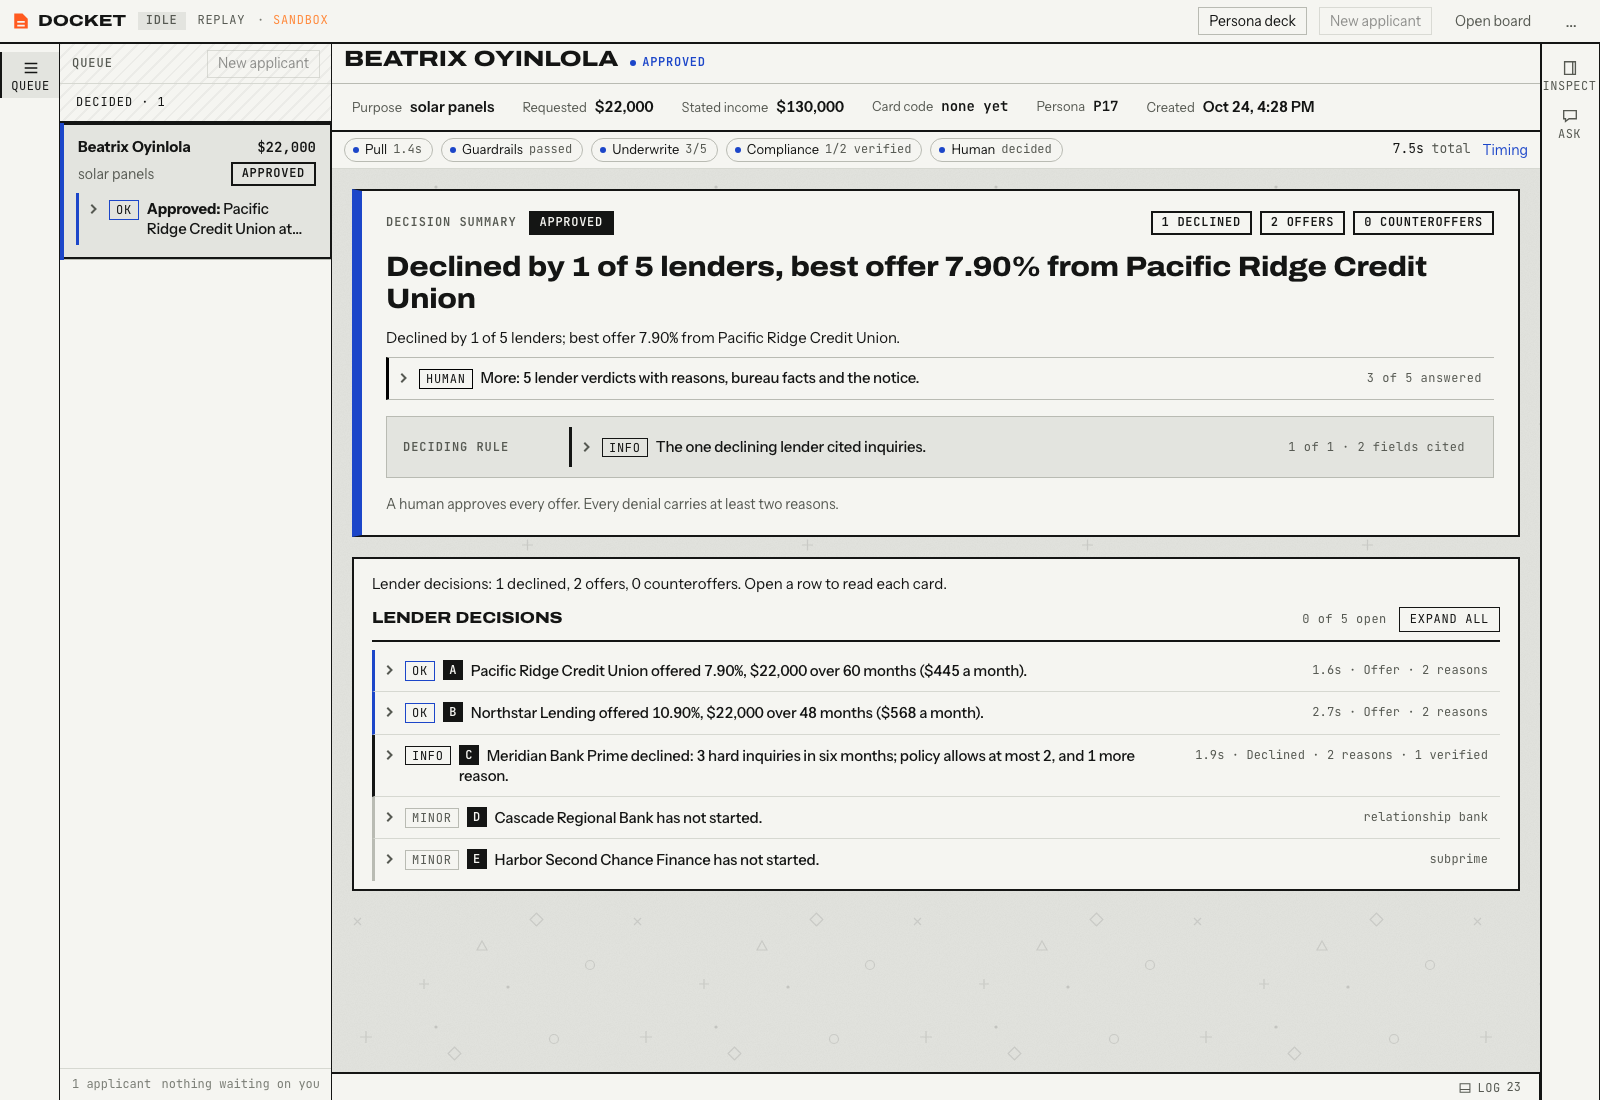
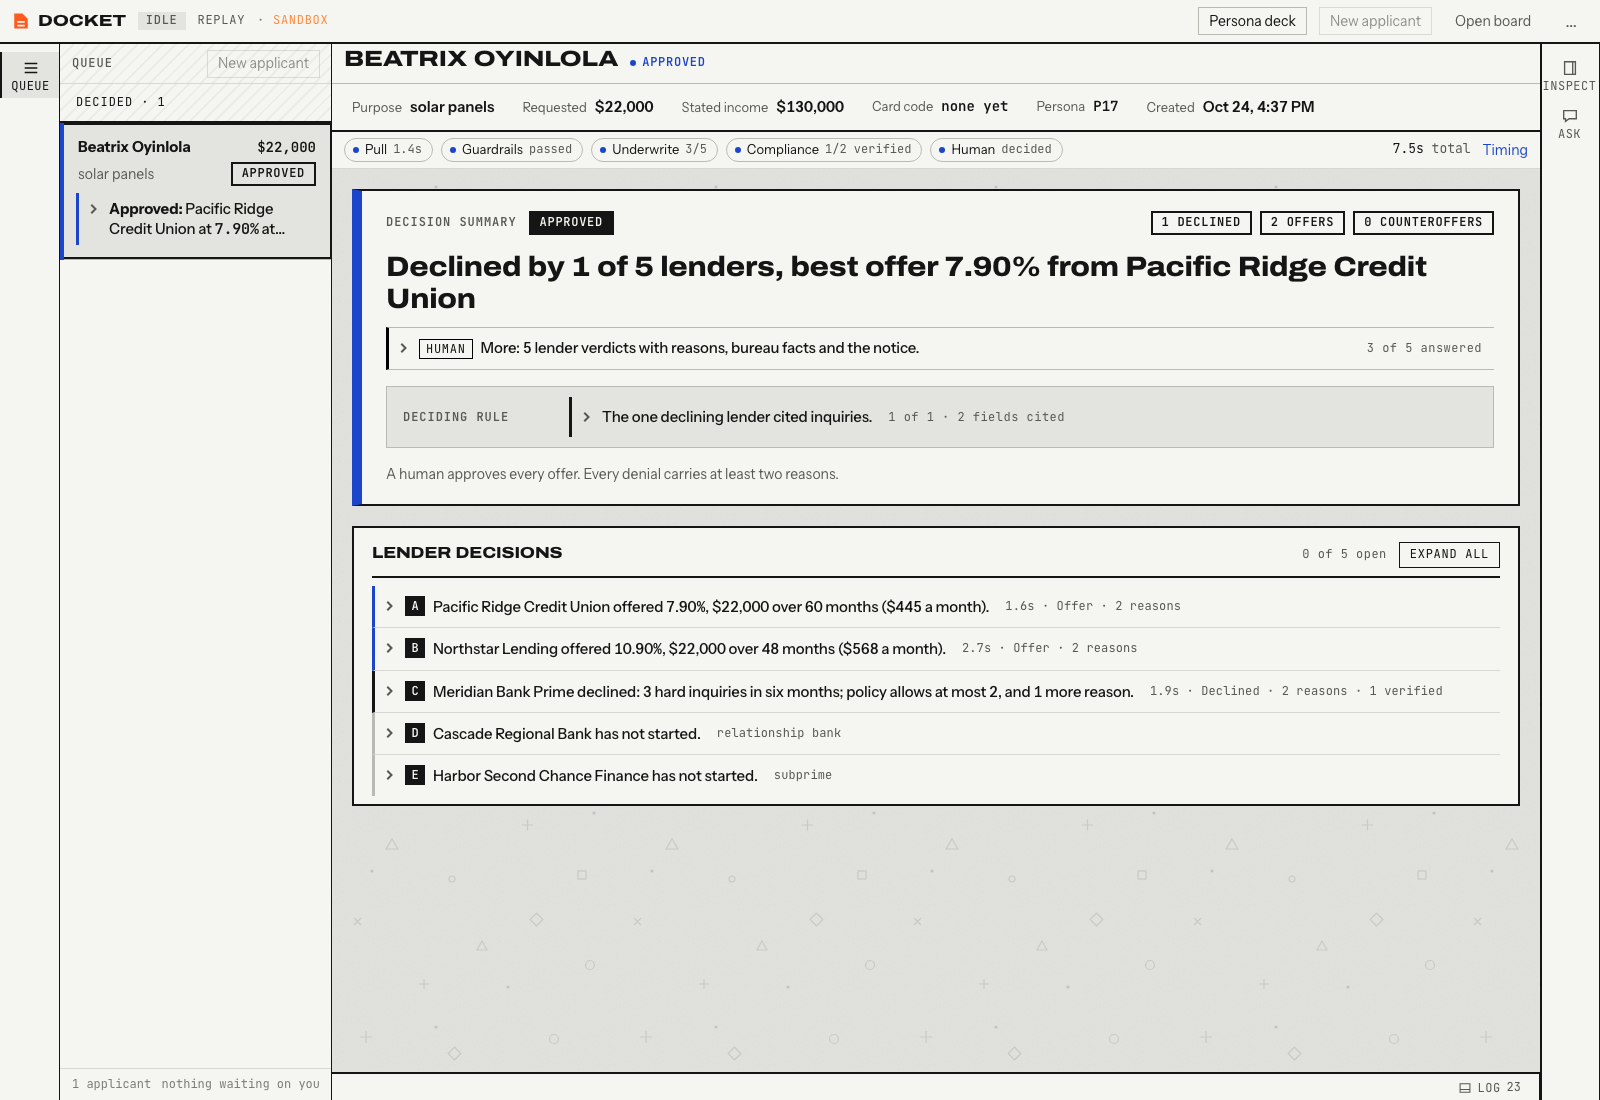
Less crowded: drop the duplicated glance sentences, shorter More row, tone tags only on Flag and Human rows

diff --git a/web/src/components/DecisionSummary.tsx b/web/src/components/DecisionSummary.tsx
@@ -257,7 +257,6 @@ function StopDetail({ s, hs, a, events }: { s: Summary; hs: AuditEvent | undefin
 export function DecisionSummary({ applicant: a, offers, hardStop, canDecide, onApprove, onDecline, checks, bundle, notice, events }: Props) {
   const s = summarize(a, offers, hardStop, checks)
   const hard = s.kind === 'hard'
-  const tail = canDecide ? (s.kind === 'offers' ? ' Approve or decline below.' : s.kind === 'none' ? ' Decline is the only action.' : '') : ''
   const moreParts = [`${s.lenders.length} lender verdicts with reasons`]
   if (bundle) moreParts.push('bureau facts')
   if (notice) moreParts.push('the notice')
@@ -289,11 +288,10 @@ export function DecisionSummary({ applicant: a, offers, hardStop, canDecide, onA
         )}
         {!hard && (
           <div className="sum-more-row">
-            <p className="sum-glance">{s.glance}{tail}</p>
             <Disclose
-              tone="human"
+              tone="info"
               className="sum-more-disclose"
-              summary={`More: ${moreLine}${canDecide ? ', to read before you act' : ''}.`}
+              summary={`More: ${moreLine}.`}
               meta={`${s.answered} of ${s.total} answered`}
               detail={<MoreDetail s={s} bundle={bundle} notice={notice} canDecide={canDecide} />}
             />

diff --git a/web/src/components/Disclose.tsx b/web/src/components/Disclose.tsx
@@ -225,7 +225,11 @@ export function Disclose({
             <path d="M4 2.5 7.5 6 4 9.5" fill="none" stroke="currentColor" strokeWidth="2" strokeLinecap="square" />
           </svg>
         </span>
-        <span className="disclose__tone">{toneWord ?? TONE_WORD[tone]}</span>
+        {(toneWord != null || tone === 'bad' || tone === 'human') ? (
+          <span className="disclose__tone">{toneWord ?? TONE_WORD[tone]}</span>
+        ) : (
+          <span className="disclose__sr">{TONE_WORD[tone]}</span>
+        )}
         <span className="disclose__summary">{summary}</span>
         {meta != null && <span className="disclose__meta mono">{meta}</span>}
       </button>

diff --git a/web/src/App.tsx b/web/src/App.tsx
@@ -398,7 +398,6 @@ export default function App() {
                   const sm = summarize(applicant, offers, hs, desk.reasonChecks)
                   return (
                     <section className="lg" aria-label="Lender decisions">
-                      <p className="lg-glance">{sm.lenderGlance}</p>
                       <DiscloseGroup title="Lender decisions">
                         {original && (
                           <div className="diff-label section-label">

diff --git a/web/src/styles/disclose.css b/web/src/styles/disclose.css
@@ -304,3 +304,5 @@
   font-variant-numeric: tabular-nums;
   letter-spacing: 0.01em;
 }
+/* Tone word for screen readers only on quiet rows (info, OK, idle); Flag and Human keep the visible tag. */
+.disclose__sr { position: absolute; width: 1px; height: 1px; overflow: hidden; clip: rect(0 0 0 0); white-space: nowrap; }
